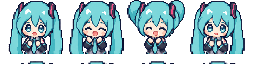
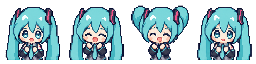
fix(pet): 按人物重切精灵图，统一 0.5 秒一帧
动画一直在往左漂，这是真的：量每帧的可见范围，左沿是 8 → 5 → 1 → 0，一轮四帧漂 8
像素然后跳回去，八套动画全都这样。

原因不是抠图，是切格。原图两张 256×256 的 4×4 表，作者画的格距**不是 64**——人物
中心在 35 / 96 / 155.5 / 217，而 64 网格该是 32 / 96 / 160 / 224。按标称网格硬切，
每列差 2~3px，四列累积成 8px。竖直方向同理（脚线 59/119/181/242，64 网格该是
63/127/191/255）。

改成按人物本身对齐重切：
  横向 —— 下半身重心（自身包围盒底部 40%）。用整体重心会被抬起的手臂拽偏：挥手、
          欢呼那几帧手臂在动，腿没动。
  纵向 —— 脚底钉在 y=60，八套共用一条线。之前 idle 脚线 60、sad 51，切换动画时
          她会上下跳 9px。

结果：idle / thinking / clap 的左沿抖动从 8px 归零，脚线八套统一。happy 还剩 5px、
wave 4px，那是姿势本身在变（举手、伸手），不是漂移。

中途踩了一个坑：第一版给裁剪框留了 4px 余量怕切掉边缘，结果格与格之间只隔几个像
素，余量把隔壁人物的边缘吃了进来，成品里表现为帧右侧一条竖杠。列块本身就是按列投
影出的内容精确范围，单格内容必然落在里面——不需要任何余量。

顺带查了"没扣干净底"：alpha 是纯二值的（半透明像素 0 个），合成到品红底上没有光
晕。那些贴着透明区的近白像素是她头顶的高光（颜色 213,214,219 一类的浅灰蓝，十个
挤在 y=7 那一排），不是残底。

速率表塌成一个常量 FRAME_MS = 500。之前按动画分别调（鼓掌 170、困倦 430）看着更
"有表现力"，实际是每换一次状态节奏就变一次，像卡顿；每套只有四帧，四帧撑不起节奏
变化。

素材 README 里写下三条对齐约定和那个格距陷阱，免得下次换素材再走一遍。

diff --git a/desktop/test/pet-anim.test.js b/desktop/test/pet-anim.test.js
@@ -116,6 +116,9 @@ vm.createContext(sandbox)
 new vm.Script(code, { filename: 'pet.html' }).runInContext(sandbox)
 
 /* ── 断言 ───────────────────────────────────────────────────────────────── */
+/** 单帧毫秒数。八套动画共用一个，改 pet.html 里的 FRAME_MS 就要改这里。 */
+const FRAME_MS = 500
+
 let pass = 0
 let fail = 0
 const check = (name, cond, extra = '') => {
@@ -134,16 +137,31 @@ async function main() {
   check('素材就绪后报到了一次', readyCalls === 1, String(readyCalls))
   check('三条推送都接上了', subs.state !== null && subs.play !== null && subs.say !== null)
 
-  console.log('2) idle 一直循环，0.5 秒一帧')
+  console.log('2) 八套动画都是 0.5 秒一帧')
+  {
+    // 曾经按动画分别调速（鼓掌快、困倦慢），换一次状态节奏就变一次，像卡顿。
+    for (const anim of ['thinking', 'wave', 'sleepy']) {
+      pushState(anim === 'thinking' ? 'running' : anim === 'wave' ? 'attention' : 'idle')
+      if (anim === 'sleepy') { advance(4 * 60 * 1000 + 1000) }
+      const before = painted.frame
+      advance(FRAME_MS - 1)
+      const held = painted.frame === before
+      advance(2)
+      check(`${anim} 也是 ${FRAME_MS}ms 一帧`, held && painted.frame !== before, at())
+    }
+    pushState('idle')
+  }
+
+  console.log('2b) idle 一直循环')
   const seen = new Set()
-  for (let i = 0; i < 4; i++) { advance(500); seen.add(painted.frame) }
+  for (let i = 0; i < 4; i++) { advance(FRAME_MS); seen.add(painted.frame) }
   check('四帧都画过', seen.size === 4, [...seen].join(','))
   check('一轮之后回到第 0 帧', painted.frame === 0, at())
   // 不停顿：以前 idle 播完一轮要停 2.6–6 秒，看着像卡住了。
-  advance(500)
+  advance(FRAME_MS)
   check('立刻接着播下一轮', painted.anim === 'idle' && painted.frame === 1, at())
   let ticks = 0
-  for (let i = 0; i < 20; i++) { const before = painted.frame; advance(500); if (painted.frame !== before) ticks++ }
+  for (let i = 0; i < 20; i++) { const before = painted.frame; advance(FRAME_MS); if (painted.frame !== before) ticks++ }
   check('十秒里换了 20 帧', ticks === 20, String(ticks))
 
   console.log('3) 状态推送映射到底色')
@@ -156,9 +174,9 @@ async function main() {
   pushState('running')
   pushPlay('clap')
   check('插播中是 clap', painted.anim === 'clap', at())
-  for (let i = 0; i < 3; i++) advance(170)
+  for (let i = 0; i < 3; i++) advance(FRAME_MS)
   check('第 4 帧仍是 clap', painted.anim === 'clap' && painted.frame === 3, at())
-  advance(170)
+  advance(FRAME_MS)
   check('放完落回 thinking 第 0 帧', painted.anim === 'thinking' && painted.frame === 0, at())
   advance(3000)
   check('之后一直是 thinking', painted.anim === 'thinking', at())
@@ -166,7 +184,7 @@ async function main() {
   console.log('5) 底色没被改过时，插播落回 idle')
   pushState('idle')
   pushPlay('happy')
-  advance(200 * 4)
+  advance(FRAME_MS * 4)
   check('落回 idle', painted.anim === 'idle', at())
 
   console.log('6) 认不得的名字挡掉')
@@ -180,7 +198,7 @@ async function main() {
   check('sleepy 在循环', painted.anim === 'sleepy', at())
   pushPlay('happy')
   check('插播把她叫醒', painted.anim === 'happy', at())
-  advance(200 * 4)
+  advance(FRAME_MS * 4)
   check('放完回 idle 而不是接着睡', painted.anim === 'idle', at())
 
   console.log('8) 忙的时候不打盹')

diff --git a/desktop/renderer/pet.html b/desktop/renderer/pet.html
@@ -151,15 +151,18 @@
 
      每条底色都一直循环，包括 idle —— 没有"停在某一帧等着"这回事。
 
-     用 setTimeout 递归而不是 setInterval：每条动画的节奏差得远（鼓掌 170ms 一帧，
-     idle 500ms 一帧），而底色随时会换。逐帧重排定时器听着啰嗦，但省掉了一整套
-     “改速率就得重建 interval”的状态管理。 */
+     八套动画同一个节奏（FRAME_MS），所以这里其实用 setInterval 也行。仍然用递归
+     setTimeout，是因为切换动画时要能立刻从第 0 帧重新起算：interval 只能重建，而
+     重建的那一下会丢掉不定长的一段时间，表现为换动画时第一帧闪一下。 */
 
-  /** 各动画的单帧毫秒数。像素动画的味道来自帧率低而稳定，别跟着刷新率跑。 */
-  const RATE = {
-    idle: 500, thinking: 260, sleepy: 430, wave: 190,
-    shy: 210, happy: 200, clap: 170, sad: 260,
-  }
+  /**
+   * 单帧毫秒数。八套动画同一个节奏。
+   *
+   * 曾经按动画分别调（鼓掌快、困倦慢），看起来更"有表现力"，实际是每换一次状态
+   * 节奏就变一次，像卡顿。素材本身每套只有四帧，四帧撑不起节奏变化 —— 统一慢速
+   * 反而更像一个安静待着的小人。
+   */
+  const FRAME_MS = 500
 
   /** 认得的动画名。只用来挡拼错的名字，不区分类别 —— 是底色还是插播由调用方决定。 */
   const ANIMS = new Set(globalThis.__dshSprite.ANIMS)
@@ -192,10 +195,10 @@
     if (frame === 0 && shot !== null) {
       shot = null
       draw()
-      schedule(RATE[base] ?? 220)
+      schedule(FRAME_MS)
       return
     }
-    schedule(RATE[anim] ?? 220)
+    schedule(FRAME_MS)
   }
 
   /** 换底色。同一条就不打断，免得状态被重复推送时动画总从头开始。 */
@@ -205,7 +208,7 @@
     shot = null
     frame = 0
     draw()
-    schedule(RATE[base] ?? 220)
+    schedule(FRAME_MS)
   }
 
   /* ── 打盹 ───────────────────────────────────────────────────────────────
@@ -247,7 +250,7 @@
     shot = anim
     frame = 0
     draw()
-    schedule(RATE[anim] ?? 220)
+    schedule(FRAME_MS)
   }
 
   // 素材是异步解码的，加载完再画第一帧 —— 否则首帧是一张空画布。
@@ -255,7 +258,7 @@
   // 帧落在还没解码完的画布上。
   void load().then(() => {
     draw()
-    schedule(RATE.idle)
+    schedule(FRAME_MS)
     window.__dshPet?.ready()
   })
   scheduleNap()

diff --git a/desktop/renderer/assets/README.md b/desktop/renderer/assets/README.md
@@ -1,12 +1,26 @@
 # 宠物素材
 
-八条横向精灵图，每条 4 帧、单帧 64×64、背景透明（整张 256×64）。
+八条横向精灵图，每条 4 帧、单帧 64×64、背景透明（整张 256×64）。**统一 0.5 秒一帧。**
+
+三条对齐约定，改素材时要一起守住，否则播起来会抖：
+
+- **人物在格子里居中**，按*下半身重心*（自身包围盒底部 40%）对齐。用整体重心会被
+  抬起来的手臂拽偏 —— 挥手、欢呼那几帧的手臂在动，腿没动。
+- **脚底钉在 y=60**，八条动画共用同一条线。切换动画时才不会上下跳。
+- **alpha 是二值的**（只有 0 和 255）。像素画不要抗锯齿边，半透明像素放大之后是一
+  圈灰边。
+
+原图是两张 256×256 的 4×4 表，但作者画的格距**不是 64**（实测约 61）：人物中心在
+35 / 96 / 155.5 / 217，而 64 网格应该是 32 / 96 / 160 / 224。按标称网格硬切，误差会
+累积成"每帧向左漂 2px、一轮漂 8px 然后跳回去"。所以重切要按人物本身对齐，不能按格
+子；切的时候也不要给裁剪框留余量 —— 格与格之间只隔几个像素，多留 4px 就会把隔壁人
+物的边缘吃进来，成品里表现为帧右侧一条竖杠。
 
 分两类用，但**区别在调用点而不在素材里** —— 同一条动画既能当底色循环，也能插播一轮：
 
 | 文件 | 动画 | 当前用法 |
 |---|---|---|
-| `miku-idle.png` | 待机 | 默认底色。**没有别的在播时永远是它**，一直循环，0.5 秒一帧。 |
+| `miku-idle.png` | 待机 | 默认底色。**没有别的在播时永远是它**，一直循环。 |
 | `miku-thinking.png` | 思考 | 底色：智能体正在跑任务。 |
 | `miku-wave.png` | 挥手问候 | 底色：等你审批 / 有提问；也插播一轮当出场问候。 |
 | `miku-sleepy.png` | 困倦打哈欠 | 底色：待机满 4 分钟没人理。任何互动都叫醒。 |
@@ -15,9 +29,9 @@
 | `miku-clap.png` | 拍手庆祝 | 插播：别的智能体干完一轮，她过来报喜。 |
 | `miku-sad.png` | 沮丧 | 插播：发送失败。 |
 
-改素材只要替换文件，尺寸和帧数保持一致即可；渲染那边（`../pet-sprite.js`）按
-64×64 × 4 帧读，不需要改代码。加一条新动画则要在 `pet-sprite.js` 的 `SHEETS`
-里登记，并在 `../pet.html` 的 `RATE` 里给一个节奏。
+改素材只要替换文件，尺寸、帧数和上面三条对齐约定保持一致即可；渲染那边
+（`../pet-sprite.js`）按 64×64 × 4 帧读，不需要改代码。加一条新动画只要在
+`pet-sprite.js` 的 `SHEETS` 里登记 —— 节奏是全局的 `FRAME_MS`，不用逐条配。
 
 ## 角色授权
 
